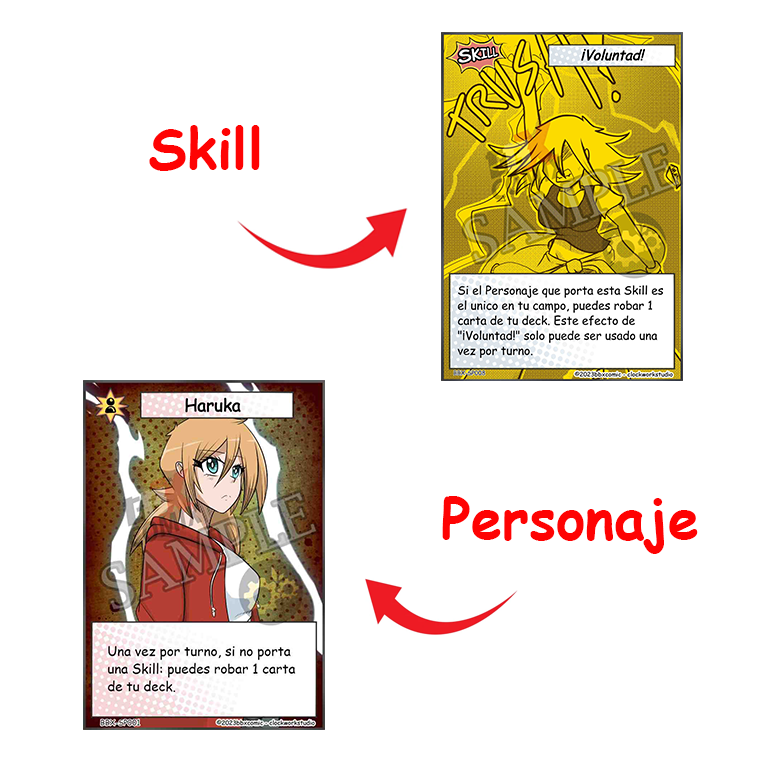
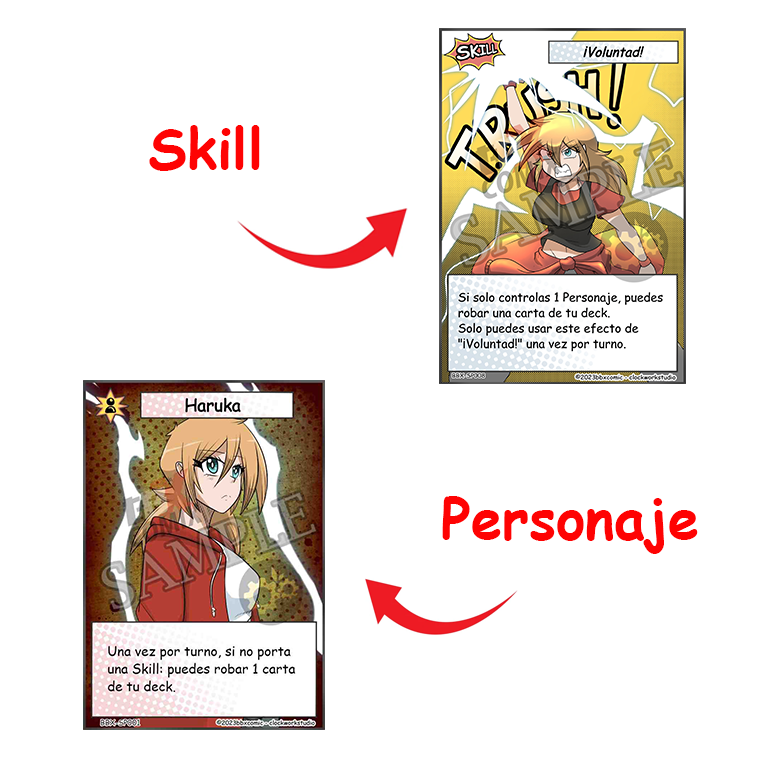
Corrección de errores menores

Changed region(s): [[0.5625, 0.0312, 0.9062, 0.5]]

diff --git a/torneos.html b/torneos.html
@@ -74,7 +74,7 @@
     </ul>
 
 <!--Galería de Ganadores-->
-    <h2 class="text-warning text-center fw-bold mb-4">Ganadores</h2>
+    <h2 class="text-warning text-center fw-bold mb-4">Campeones Nacionales y de Liga</h2>
           <div class="col-md-4">
         <div class="card">
           <img src="./assets/images/torneos/Marcelo.jpg" class="card-img-top" alt="Ganador Torneo Primavera">